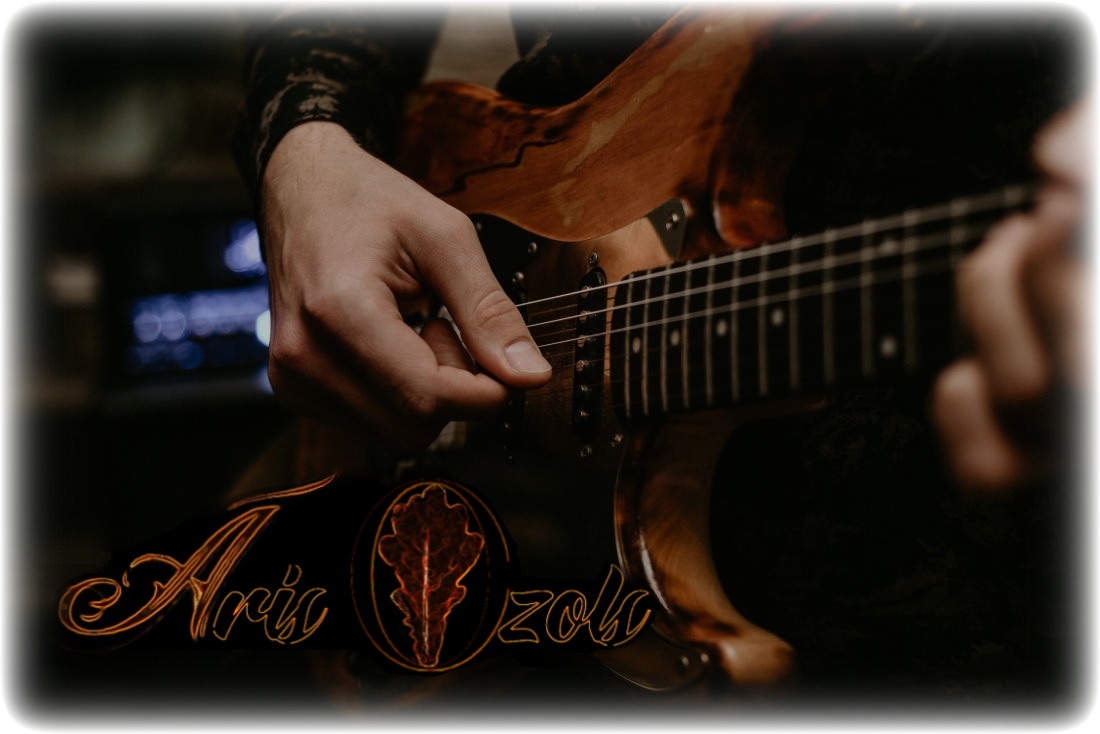
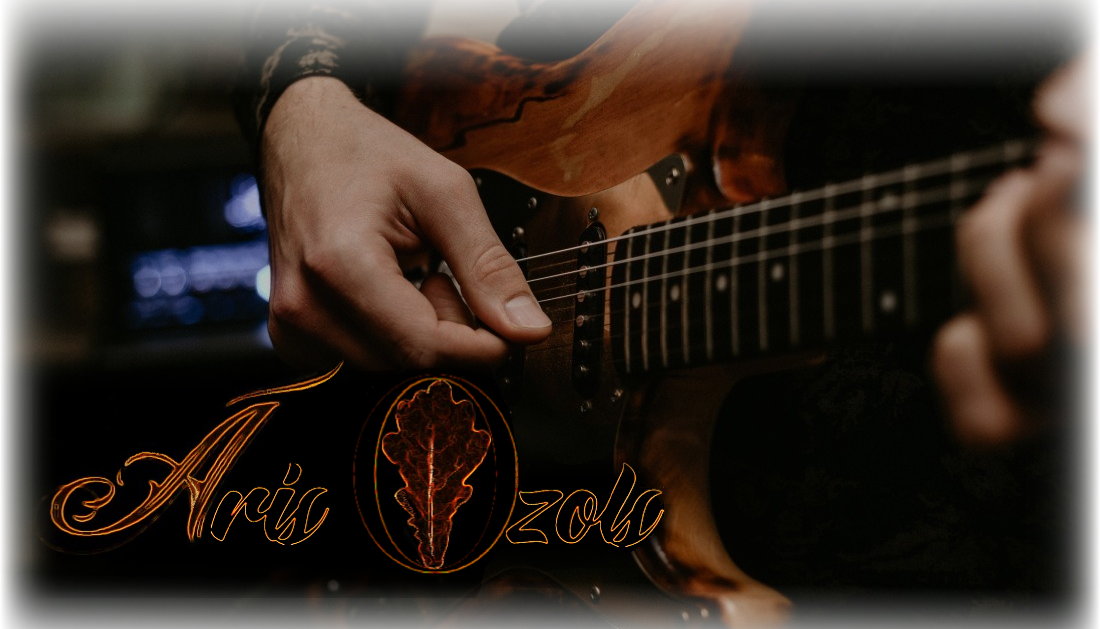
Soundcoud

diff --git a/KompozicijasAranzejumi.html b/KompozicijasAranzejumi.html
@@ -68,9 +68,9 @@
     
         <section class="container px-4 pt-5 myshadow color-white h">
             <h1 class="text-center mb-5 text-uppercase">Kompozicijas un Aranzejumi</h1>
-            <iframe width="100%" height="450" scrolling="no" frameborder="no" allow="autoplay" src="https://w.soundcloud.com/player/?url=https%3A//api.soundcloud.com/playlists/1224223645&color=%23ff5500&auto_play=false&hide_related=false&show_comments=true&show_user=true&show_reposts=false&show_teaser=true" style="margin-bottom: 30px;"></iframe><div style="font-size: 10px; color: #cccccc;line-break: anywhere;word-break: normal;overflow: hidden;white-space: nowrap;text-overflow: ellipsis; font-family: Interstate,Lucida Grande,Lucida Sans Unicode,Lucida Sans,Garuda,Verdana,Tahoma,sans-serif;font-weight: 100;"><a href="https://soundcloud.com/aris-ozols" title="Aris Ozols" target="_blank" style="color: #cccccc; text-decoration: none;">Aris Ozols</a> · <a href="https://soundcloud.com/aris-ozols/sets/compositions-and-arrangements" title="Compositions and arrangements" target="_blank" style="color: #cccccc; text-decoration: none;">Compositions and arrangements</a></div>        
-            <iframe width="100%" height="450" scrolling="no" frameborder="no" allow="autoplay" src="https://w.soundcloud.com/player/?url=https%3A//api.soundcloud.com/playlists/1224221557&color=%23ff5500&auto_play=false&hide_related=false&show_comments=true&show_user=true&show_reposts=false&show_teaser=true" style="margin-bottom: 30px;"></iframe><div style="font-size: 10px; color: #cccccc;line-break: anywhere;word-break: normal;overflow: hidden;white-space: nowrap;text-overflow: ellipsis; font-family: Interstate,Lucida Grande,Lucida Sans Unicode,Lucida Sans,Garuda,Verdana,Tahoma,sans-serif;font-weight: 100;"><a href="https://soundcloud.com/aris-ozols" title="Aris Ozols" target="_blank" style="color: #cccccc; text-decoration: none;">Aris Ozols</a> · <a href="https://soundcloud.com/aris-ozols/sets/soundtracks-and-commercial-music-and-music-ideas" title="Soundtracks, media music and ideas" target="_blank" style="color: #cccccc; text-decoration: none;">Soundtracks, media music and ideas</a></div>
-            <iframe width="100%" height="450" scrolling="no" frameborder="no" allow="autoplay" src="https://w.soundcloud.com/player/?url=https%3A//api.soundcloud.com/playlists/1227198295&color=%23ff5500&auto_play=false&hide_related=false&show_comments=true&show_user=true&show_reposts=false&show_teaser=true" style="margin-bottom: 30px;"></iframe><div style="font-size: 10px; color: #cccccc;line-break: anywhere;word-break: normal;overflow: hidden;white-space: nowrap;text-overflow: ellipsis; font-family: Interstate,Lucida Grande,Lucida Sans Unicode,Lucida Sans,Garuda,Verdana,Tahoma,sans-serif;font-weight: 100;"><a href="https://soundcloud.com/aris-ozols" title="Aris Ozols" target="_blank" style="color: #cccccc; text-decoration: none;">Aris Ozols</a> · <a href="https://soundcloud.com/aris-ozols/sets/ambient-music" title="Ambient music compositions/arrangements" target="_blank" style="color: #cccccc; text-decoration: none;">Ambient music compositions/arrangements</a></div>
+            <iframe width="100%" height="450" scrolling="no" frameborder="no" allow="autoplay" src="https://w.soundcloud.com/player/?url=https%3A//api.soundcloud.com/playlists/1224223645&color=%23ffa51a&auto_play=false&hide_related=false&show_comments=true&show_user=true&show_reposts=false&show_teaser=true&visual=true" style="margin-bottom: 60px;"></iframe><div style="font-size: 10px; color: #cccccc;line-break: anywhere;word-break: normal;overflow: hidden;white-space: nowrap;text-overflow: ellipsis; font-family: Interstate,Lucida Grande,Lucida Sans Unicode,Lucida Sans,Garuda,Verdana,Tahoma,sans-serif;font-weight: 100;"><a href="https://soundcloud.com/aris-ozols" title="Aris Ozols" target="_blank" style="color: #cccccc; text-decoration: none;">Aris Ozols</a> · <a href="https://soundcloud.com/aris-ozols/sets/compositions-and-arrangements" title="Compositions and arrangements" target="_blank" style="color: #cccccc; text-decoration: none;">Compositions and arrangements</a></div>
+            <iframe width="100%" height="420" scrolling="no" frameborder="no" allow="autoplay" src="https://w.soundcloud.com/player/?url=https%3A//api.soundcloud.com/playlists/1224221557&color=%23ffa51a&auto_play=false&hide_related=false&show_comments=true&show_user=true&show_reposts=false&show_teaser=true" style="margin-bottom: 60px;"></iframe><div style="font-size: 10px; color: #cccccc;line-break: anywhere;word-break: normal;overflow: hidden;white-space: nowrap;text-overflow: ellipsis; font-family: Interstate,Lucida Grande,Lucida Sans Unicode,Lucida Sans,Garuda,Verdana,Tahoma,sans-serif;font-weight: 100;"><a href="https://soundcloud.com/aris-ozols" title="Aris Ozols" target="_blank" style="color: #cccccc; text-decoration: none;">Aris Ozols</a> · <a href="https://soundcloud.com/aris-ozols/sets/soundtracks-and-commercial-music-and-music-ideas" title="Soundtracks, media music and ideas" target="_blank" style="color: #cccccc; text-decoration: none;">Soundtracks, media music and ideas</a></div>
+            <iframe width="100%" height="380" scrolling="no" frameborder="no" allow="autoplay" src="https://w.soundcloud.com/player/?url=https%3A//api.soundcloud.com/playlists/1227198295&color=%23ffa51a&auto_play=false&hide_related=false&show_comments=true&show_user=true&show_reposts=false&show_teaser=true" style="margin-bottom: 60px;"></iframe><div style="font-size: 10px; color: #cccccc;line-break: anywhere;word-break: normal;overflow: hidden;white-space: nowrap;text-overflow: ellipsis; font-family: Interstate,Lucida Grande,Lucida Sans Unicode,Lucida Sans,Garuda,Verdana,Tahoma,sans-serif;font-weight: 100;"><a href="https://soundcloud.com/aris-ozols" title="Aris Ozols" target="_blank" style="color: #cccccc; text-decoration: none;">Aris Ozols</a> · <a href="https://soundcloud.com/aris-ozols/sets/ambient-music" title="Ambient music compositions/arrangements" target="_blank" style="color: #cccccc; text-decoration: none;">Ambient music compositions/arrangements</a></div>
         </section>
         <footer>
             <div class="soc">

diff --git a/CompositionsAndArrangements.html b/CompositionsAndArrangements.html
@@ -68,9 +68,8 @@
     
         <section class="container px-4 pt-5 myshadow color-white h">
             <h1 class="text-center mb-5 text-uppercase">Compositions and Arrangements</h1>
-            <iframe width="100%" height="450" scrolling="no" frameborder="no" allow="autoplay" src="https://w.soundcloud.com/player/?url=https%3A//api.soundcloud.com/playlists/1224223645&color=%23ff5500&auto_play=false&hide_related=false&show_comments=true&show_user=true&show_reposts=false&show_teaser=true" style="margin-bottom: 30px;"></iframe><div style="font-size: 10px; color: #cccccc;line-break: anywhere;word-break: normal;overflow: hidden;white-space: nowrap;text-overflow: ellipsis; font-family: Interstate,Lucida Grande,Lucida Sans Unicode,Lucida Sans,Garuda,Verdana,Tahoma,sans-serif;font-weight: 100;"><a href="https://soundcloud.com/aris-ozols" title="Aris Ozols" target="_blank" style="color: #cccccc; text-decoration: none;">Aris Ozols</a> · <a href="https://soundcloud.com/aris-ozols/sets/compositions-and-arrangements" title="Compositions and arrangements" target="_blank" style="color: #cccccc; text-decoration: none;">Compositions and arrangements</a></div>        
-            <iframe width="100%" height="450" scrolling="no" frameborder="no" allow="autoplay" src="https://w.soundcloud.com/player/?url=https%3A//api.soundcloud.com/playlists/1224221557&color=%23ff5500&auto_play=false&hide_related=false&show_comments=true&show_user=true&show_reposts=false&show_teaser=true" style="margin-bottom: 30px;"></iframe><div style="font-size: 10px; color: #cccccc;line-break: anywhere;word-break: normal;overflow: hidden;white-space: nowrap;text-overflow: ellipsis; font-family: Interstate,Lucida Grande,Lucida Sans Unicode,Lucida Sans,Garuda,Verdana,Tahoma,sans-serif;font-weight: 100;"><a href="https://soundcloud.com/aris-ozols" title="Aris Ozols" target="_blank" style="color: #cccccc; text-decoration: none;">Aris Ozols</a> · <a href="https://soundcloud.com/aris-ozols/sets/soundtracks-and-commercial-music-and-music-ideas" title="Soundtracks, media music and ideas" target="_blank" style="color: #cccccc; text-decoration: none;">Soundtracks, media music and ideas</a></div>
-            <iframe width="100%" height="450" scrolling="no" frameborder="no" allow="autoplay" src="https://w.soundcloud.com/player/?url=https%3A//api.soundcloud.com/playlists/1227198295&color=%23ff5500&auto_play=false&hide_related=false&show_comments=true&show_user=true&show_reposts=false&show_teaser=true" style="margin-bottom: 30px;"></iframe><div style="font-size: 10px; color: #cccccc;line-break: anywhere;word-break: normal;overflow: hidden;white-space: nowrap;text-overflow: ellipsis; font-family: Interstate,Lucida Grande,Lucida Sans Unicode,Lucida Sans,Garuda,Verdana,Tahoma,sans-serif;font-weight: 100;"><a href="https://soundcloud.com/aris-ozols" title="Aris Ozols" target="_blank" style="color: #cccccc; text-decoration: none;">Aris Ozols</a> · <a href="https://soundcloud.com/aris-ozols/sets/ambient-music" title="Ambient music compositions/arrangements" target="_blank" style="color: #cccccc; text-decoration: none;">Ambient music compositions/arrangements</a></div>
+<iframe width="100%" height="300" scrolling="no" frameborder="no" allow="autoplay" src="https://w.soundcloud.com/player/?url=https%3A//api.soundcloud.com/playlists/1224223645&color=%23ffa51a&auto_play=false&hide_related=false&show_comments=true&show_user=true&show_reposts=false&show_teaser=true&visual=true"></iframe><div style="font-size: 10px; color: #cccccc;line-break: anywhere;word-break: normal;overflow: hidden;white-space: nowrap;text-overflow: ellipsis; font-family: Interstate,Lucida Grande,Lucida Sans Unicode,Lucida Sans,Garuda,Verdana,Tahoma,sans-serif;font-weight: 100;"><a href="https://soundcloud.com/aris-ozols" title="Aris Ozols" target="_blank" style="color: #cccccc; text-decoration: none;">Aris Ozols</a> · <a href="https://soundcloud.com/aris-ozols/sets/compositions-and-arrangements" title="Compositions and arrangements" target="_blank" style="color: #cccccc; text-decoration: none;">Compositions and arrangements</a></div>            <iframe width="100%" height="450" scrolling="no" frameborder="no" allow="autoplay" src="https://w.soundcloud.com/player/?url=https%3A//api.soundcloud.com/playlists/1224221557&color=%23ffa51a&auto_play=false&hide_related=false&show_comments=true&show_user=true&show_reposts=false&show_teaser=true" style="margin-bottom: 30px;"></iframe><div style="font-size: 10px; color: #cccccc;line-break: anywhere;word-break: normal;overflow: hidden;white-space: nowrap;text-overflow: ellipsis; font-family: Interstate,Lucida Grande,Lucida Sans Unicode,Lucida Sans,Garuda,Verdana,Tahoma,sans-serif;font-weight: 100;"><a href="https://soundcloud.com/aris-ozols" title="Aris Ozols" target="_blank" style="color: #cccccc; text-decoration: none;">Aris Ozols</a> · <a href="https://soundcloud.com/aris-ozols/sets/soundtracks-and-commercial-music-and-music-ideas" title="Soundtracks, media music and ideas" target="_blank" style="color: #cccccc; text-decoration: none;">Soundtracks, media music and ideas</a></div>
+            <iframe width="100%" height="450" scrolling="no" frameborder="no" allow="autoplay" src="https://w.soundcloud.com/player/?url=https%3A//api.soundcloud.com/playlists/1227198295&color=%23ffa51a&auto_play=false&hide_related=false&show_comments=true&show_user=true&show_reposts=false&show_teaser=true" style="margin-bottom: 30px;"></iframe><div style="font-size: 10px; color: #cccccc;line-break: anywhere;word-break: normal;overflow: hidden;white-space: nowrap;text-overflow: ellipsis; font-family: Interstate,Lucida Grande,Lucida Sans Unicode,Lucida Sans,Garuda,Verdana,Tahoma,sans-serif;font-weight: 100;"><a href="https://soundcloud.com/aris-ozols" title="Aris Ozols" target="_blank" style="color: #cccccc; text-decoration: none;">Aris Ozols</a> · <a href="https://soundcloud.com/aris-ozols/sets/ambient-music" title="Ambient music compositions/arrangements" target="_blank" style="color: #cccccc; text-decoration: none;">Ambient music compositions/arrangements</a></div>
         </section>
         <footer>
             <div class="soc">

diff --git a/MusicProjects.html b/MusicProjects.html
@@ -138,30 +138,7 @@
                     </div>
                 </div>
             </div>
-            <!-- Dagmara Staniek -->
-            <div>
-                <div class="row justify-content-end">
-                    <h2 class="pamatprojekti col-md-9 px-md-3 px-lg-5 text-md-left">Dagmara Staniek</h2>
-                </div>
-                <div class="row mb-5">
-                    <div class="col-md-3">
-                        <img src="./assets/bildes/Dagmara & Aris duo.png" alt="Āris and Dagmara Staniek" class="w-100">
-                        <div class="mt-4 d-none d-md-block">
-                            <a href="https://youtu.be/FoYVHxbkorE" target="_blank"><p>youtu.be/FoYVHxbkorE</p></a>
-                            <a href="https://youtu.be/hAaYU7JyZ-8" target="_blank"><p>youtu.be/hAaYU7JyZ-8</p></a>
-                        </div>
-                    </div>
-                    <div class="col-md-9 px-md-3 px-md-3 px-lg-5 pt-3 pt-md-0">
-                        <div class="mytext">
-                        <p>This project with Dagmara has been made as an acoustic band, where you can hear both acoustic guitar and also mandola’s sounds. Since Dagmara is a Polish singer, who lives in Sweden, their creative work is between Riga and Stockholm. In terms of music, in addition to their own compositions, arrangements of hits of recent popular songs can be heard, which are turned to interesting and sophisticated arrangements and often are hardly recognizable.</p>
-                        </div>
-                        <div class="mt-4 d-block d-md-none">
-                            <a href="https://youtu.be/FoYVHxbkorE" target="_blank"><p>youtu.be/FoYVHxbkorE</p></a>
-                            <a href="https://youtu.be/hAaYU7JyZ-8" target="_blank"><p>youtu.be/hAaYU7JyZ-8</p></a>
-                        </div>
-                    </div>
-                </div>
-            </div>
+
             <!-- Jolanta Gulbe-Paškeviča -->
             <div>
                 <div class="row justify-content-end">
@@ -194,7 +171,30 @@
                     </div>
                 </div>
             </div>
-
+            <!-- Dagmara Staniek -->
+            <div>
+                <div class="row justify-content-end">
+                    <h2 class="pamatprojekti col-md-9 px-md-3 px-lg-5 text-md-left">Dagmara Staniek</h2>
+                </div>
+                <div class="row mb-5">
+                    <div class="col-md-3">
+                        <img src="./assets/bildes/Dagmara & Aris duo.png" alt="Āris and Dagmara Staniek" class="w-100">
+                        <div class="mt-4 d-none d-md-block">
+                            <a href="https://youtu.be/FoYVHxbkorE" target="_blank"><p>youtu.be/FoYVHxbkorE</p></a>
+                            <a href="https://youtu.be/hAaYU7JyZ-8" target="_blank"><p>youtu.be/hAaYU7JyZ-8</p></a>
+                        </div>
+                    </div>
+                    <div class="col-md-9 px-md-3 px-md-3 px-lg-5 pt-3 pt-md-0">
+                        <div class="mytext">
+                        <p>This project with Dagmara has been made as an acoustic band, where you can hear both acoustic guitar and also mandola’s sounds. Since Dagmara is a Polish singer, who lives in Sweden, their creative work is between Riga and Stockholm. In terms of music, in addition to their own compositions, arrangements of hits of recent popular songs can be heard, which are turned to interesting and sophisticated arrangements and often are hardly recognizable.</p>
+                        </div>
+                        <div class="mt-4 d-block d-md-none">
+                            <a href="https://youtu.be/FoYVHxbkorE" target="_blank"><p>youtu.be/FoYVHxbkorE</p></a>
+                            <a href="https://youtu.be/hAaYU7JyZ-8" target="_blank"><p>youtu.be/hAaYU7JyZ-8</p></a>
+                        </div>
+                    </div>
+                </div>
+            </div>
             
 <!-- citi projekti -->
             <h2 class="h1 text-center mb-5 pt-5 text-uppercase">In addition to these Music Projects you can see Aris often together with these musicians:</h2>

diff --git a/MuzikalieProjekti.html b/MuzikalieProjekti.html
@@ -138,30 +138,7 @@
                     </div>
                 </div>
             </div>
-            <!-- Dagmara Staniek -->
-            <div>
-                <div class="row justify-content-end">
-                    <h2 class="pamatprojekti col-md-9 px-md-3 px-lg-5 text-md-left">Dagmara Staniek</h2>
-                </div>
-                <div class="row mb-5">
-                    <div class="col-md-3">
-                        <img src="./assets/bildes/Dagmara & Aris duo.png" alt="Āris un Dagmara Staniek" class="w-100">
-                        <div class="mt-4 d-none d-md-block">
-                            <a href="https://youtu.be/FoYVHxbkorE" target="_blank"><p>youtu.be/FoYVHxbkorE</p></a>
-                            <a href="https://youtu.be/hAaYU7JyZ-8" target="_blank"><p>youtu.be/hAaYU7JyZ-8</p></a>
-                        </div>
-                    </div>
-                    <div class="col-md-9 px-md-3 px-md-3 px-lg-5 pt-3 pt-md-0">
-                        <div class="mytext">
-                        <p>Šis projekts ar Dagmaru ir veidots kā akustiskais projekts, kur var dzirdēt gan akustiskās ģitāras, gan arī mandolas skaņas. Tā kā Dagmara ir poļu dziedātāja, kas dzīvo Zviedrijā, radošā darbība mums norisinās starp Rīgu un Stokholmu. Mūzikas ziņā bez pašu kompozīcijām dzirdami pēdējo laiku populāro dziesmu hītu aranžējumi, kas bieži līdz nepazīšanai pārvērsti izsmalcinātos aranžējumos.</p>
-                        </div>
-                        <div class="mt-4 d-block d-md-none">
-                            <a href="https://youtu.be/FoYVHxbkorE" target="_blank"><p>youtu.be/FoYVHxbkorE</p></a>
-                            <a href="https://youtu.be/hAaYU7JyZ-8" target="_blank"><p>youtu.be/hAaYU7JyZ-8</p></a>
-                        </div>
-                    </div>
-                </div>
-            </div>
+
             <!-- Jolanta Gulbe-Paškeviča -->
             <div>
                 <div class="row justify-content-end">
@@ -194,7 +171,30 @@
                     </div>
                 </div>
             </div>
-
+            <!-- Dagmara Staniek -->
+            <div>
+                <div class="row justify-content-end">
+                    <h2 class="pamatprojekti col-md-9 px-md-3 px-lg-5 text-md-left">Dagmara Staniek</h2>
+                </div>
+                <div class="row mb-5">
+                    <div class="col-md-3">
+                        <img src="./assets/bildes/Dagmara & Aris duo.png" alt="Āris un Dagmara Staniek" class="w-100">
+                        <div class="mt-4 d-none d-md-block">
+                            <a href="https://youtu.be/FoYVHxbkorE" target="_blank"><p>youtu.be/FoYVHxbkorE</p></a>
+                            <a href="https://youtu.be/hAaYU7JyZ-8" target="_blank"><p>youtu.be/hAaYU7JyZ-8</p></a>
+                        </div>
+                    </div>
+                    <div class="col-md-9 px-md-3 px-md-3 px-lg-5 pt-3 pt-md-0">
+                        <div class="mytext">
+                        <p>Šis projekts ar Dagmaru ir veidots kā akustiskais projekts, kur var dzirdēt gan akustiskās ģitāras, gan arī mandolas skaņas. Tā kā Dagmara ir poļu dziedātāja, kas dzīvo Zviedrijā, radošā darbība mums norisinās starp Rīgu un Stokholmu. Mūzikas ziņā bez pašu kompozīcijām dzirdami pēdējo laiku populāro dziesmu hītu aranžējumi, kas bieži līdz nepazīšanai pārvērsti izsmalcinātos aranžējumos.</p>
+                        </div>
+                        <div class="mt-4 d-block d-md-none">
+                            <a href="https://youtu.be/FoYVHxbkorE" target="_blank"><p>youtu.be/FoYVHxbkorE</p></a>
+                            <a href="https://youtu.be/hAaYU7JyZ-8" target="_blank"><p>youtu.be/hAaYU7JyZ-8</p></a>
+                        </div>
+                    </div>
+                </div>
+            </div>
             
 <!-- citi projekti -->
             <h2 class="h1 text-center mb-5 pt-5 text-uppercase">Bez šiem muzikālajiem projektiem bieži mani var redzēt kopā ar šiem mūziķiem:</h2>

diff --git a/BackingTracks.html b/BackingTracks.html
@@ -68,7 +68,7 @@
     
         <section class="container px-4 pt-5 myshadow color-white h100vh">
             <h1 class="text-center mb-5 text-uppercase">Backing Tracks</h1>
-            <iframe width="100%" height="450" scrolling="no" frameborder="no" allow="autoplay" src="https://w.soundcloud.com/player/?url=https%3A//api.soundcloud.com/playlists/1216047967&color=%23ff5500&auto_play=false&hide_related=false&show_comments=true&show_user=true&show_reposts=false&show_teaser=true"></iframe><div style="font-size: 10px; color: #cccccc;line-break: anywhere;word-break: normal;overflow: hidden;white-space: nowrap;text-overflow: ellipsis; font-family: Interstate,Lucida Grande,Lucida Sans Unicode,Lucida Sans,Garuda,Verdana,Tahoma,sans-serif;font-weight: 100;"><a href="https://soundcloud.com/aris-ozols" title="Aris Ozols" target="_blank" style="color: #cccccc; text-decoration: none;">Aris Ozols</a> · <a href="https://soundcloud.com/aris-ozols/sets/backing-tracks-aris-ozols" title="Backing tracks - Aris Ozols" target="_blank" style="color: #cccccc; text-decoration: none;">Backing tracks - Aris Ozols</a></div>
+            <iframe width="100%" height="450" scrolling="no" frameborder="no" allow="autoplay" src="https://w.soundcloud.com/player/?url=https%3A//api.soundcloud.com/playlists/1216047967&color=%23ffa51a&auto_play=false&hide_related=false&show_comments=true&show_user=true&show_reposts=false&show_teaser=true"></iframe><div style="font-size: 10px; color: #cccccc;line-break: anywhere;word-break: normal;overflow: hidden;white-space: nowrap;text-overflow: ellipsis; font-family: Interstate,Lucida Grande,Lucida Sans Unicode,Lucida Sans,Garuda,Verdana,Tahoma,sans-serif;font-weight: 100;"><a href="https://soundcloud.com/aris-ozols" title="Aris Ozols" target="_blank" style="color: #cccccc; text-decoration: none;">Aris Ozols</a> · <a href="https://soundcloud.com/aris-ozols/sets/backing-tracks-aris-ozols" title="Backing tracks - Aris Ozols" target="_blank" style="color: #cccccc; text-decoration: none;">Backing tracks - Aris Ozols</a></div>
         </section>
         
         <footer>

diff --git a/Fonogrammas.html b/Fonogrammas.html
@@ -68,7 +68,7 @@
     
         <section class="container px-4 pt-5 myshadow color-white h100vh">
             <h1 class="text-center mb-5 text-uppercase">Fonogrammas</h1>
-            <iframe width="100%" height="450" scrolling="no" frameborder="no" allow="autoplay" src="https://w.soundcloud.com/player/?url=https%3A//api.soundcloud.com/playlists/1216047967&color=%23ff5500&auto_play=false&hide_related=false&show_comments=true&show_user=true&show_reposts=false&show_teaser=true"></iframe><div style="font-size: 10px; color: #cccccc;line-break: anywhere;word-break: normal;overflow: hidden;white-space: nowrap;text-overflow: ellipsis; font-family: Interstate,Lucida Grande,Lucida Sans Unicode,Lucida Sans,Garuda,Verdana,Tahoma,sans-serif;font-weight: 100;"><a href="https://soundcloud.com/aris-ozols" title="Aris Ozols" target="_blank" style="color: #cccccc; text-decoration: none;">Aris Ozols</a> · <a href="https://soundcloud.com/aris-ozols/sets/backing-tracks-aris-ozols" title="Backing tracks - Aris Ozols" target="_blank" style="color: #cccccc; text-decoration: none;">Backing tracks - Aris Ozols</a></div>
+            <iframe width="100%" height="450" scrolling="no" frameborder="no" allow="autoplay" src="https://w.soundcloud.com/player/?url=https%3A//api.soundcloud.com/playlists/1216047967&color=%23ffa51a&auto_play=false&hide_related=false&show_comments=true&show_user=true&show_reposts=false&show_teaser=true"></iframe><div style="font-size: 10px; color: #cccccc;line-break: anywhere;word-break: normal;overflow: hidden;white-space: nowrap;text-overflow: ellipsis; font-family: Interstate,Lucida Grande,Lucida Sans Unicode,Lucida Sans,Garuda,Verdana,Tahoma,sans-serif;font-weight: 100;"><a href="https://soundcloud.com/aris-ozols" title="Aris Ozols" target="_blank" style="color: #cccccc; text-decoration: none;">Aris Ozols</a> · <a href="https://soundcloud.com/aris-ozols/sets/backing-tracks-aris-ozols" title="Backing tracks - Aris Ozols" target="_blank" style="color: #cccccc; text-decoration: none;">Backing tracks - Aris Ozols</a></div>
         </section>
         
         <footer>

diff --git a/Contacts.html b/Contacts.html
@@ -71,9 +71,9 @@
                 <h2 class="h1 pb-5 text-center">Keep in touch!</h2>
                 <div class="d-flex justify-content-center lead">
                     <div id="kontakti-section">
-                        <img src="/assets/Aris Ozols logo.jpeg" alt="Āris Ozols" class="rounded-img rounded-img-center"> <br><br>
-                        <img src="/assets/Phone.png" alt="Telefona Nr." class="icons p-2"> +371 28 347 660 <br><br>
-                        <img src="/assets/Mail.png" alt="E-pasta adrese" class="icons p-2"> arisozolsmusic@gmail.com    
+                        <img src="./assets/Aris Ozols.jpeg" alt="Āris Ozols" class="rounded-img rounded-img-center"> <br><br>
+                        <img src="./assets/Phone.png" alt="Telefona Nr." class="icons p-2"> +371 28 347 660 <br><br>
+                        <img src="./assets/Mail.png" alt="E-pasta adrese" class="icons p-2"> arisozolsmusic@gmail.com    
                     </div>
                 </div>
             </div>

diff --git a/Kontakti.html b/Kontakti.html
@@ -71,9 +71,9 @@
                 <h2 class="h1 pb-5 text-center">Uz tikšanos!</h2>
                 <div class="d-flex justify-content-center lead">
                     <div id="kontakti-section">
-                        <img src="/assets/Aris Ozols logo.jpeg" alt="Āris Ozols" class="rounded-img rounded-img-center"> <br><br>
-                        <img src="/assets/Phone.png" alt="Telefona Nr." class="icons p-2"> +371 28 347 660 <br><br>
-                        <img src="/assets/Mail.png" alt="E-pasta adrese" class="icons p-2"> arisozolsmusic@gmail.com    
+                        <img src="./assets/Aris Ozols.jpeg" alt="Āris Ozols" class="rounded-img rounded-img-center"> <br><br>
+                        <img src="./assets/Phone.png" alt="Telefona Nr." class="icons p-2"> +371 28 347 660 <br><br>
+                        <img src="./assets/Mail.png" alt="E-pasta adrese" class="icons p-2"> arisozolsmusic@gmail.com    
                     </div>
                 </div>
             </div>

diff --git a/eng.html b/eng.html
@@ -63,9 +63,9 @@
                     <li class="nav-item">
                         <a class="nav-link"></a>
                     </li>
-                    <a class="lang lang-mob" href="./index.html">Lv</a>
+                    <a class="lang lang-mob" href="/">Lv</a>
                 </ul>
-                <a class="lang d-none d-xl-block d-lg-block d-md-block" href="./index.html">Lv</a>
+                <a class="lang d-none d-xl-block d-lg-block d-md-block" href="/">Lv</a>
             </div>
         </nav>
     </header>

diff --git a/index.html b/index.html
@@ -19,7 +19,7 @@
             
         </video>
 
-        <div class="position-relative" style="z-index: -2; max-height: 100vh; width: 100%;">
+        <div class="position-relative" style="z-index: -2; height: 100%; width: 100%;">
             <img src="./assets/priekšplānaAttēls.png" alt="Aris Ozols" class="main-picture1">
         </div>
 

diff --git a/css/styles.css b/css/styles.css
@@ -716,6 +716,7 @@ h1 {
 }
 .main-picture1 {
   object-fit: cover;
+  object-position: top center;
   width: 100%;
   max-height: 100vh;
   padding: 0 20px 0 15px;
